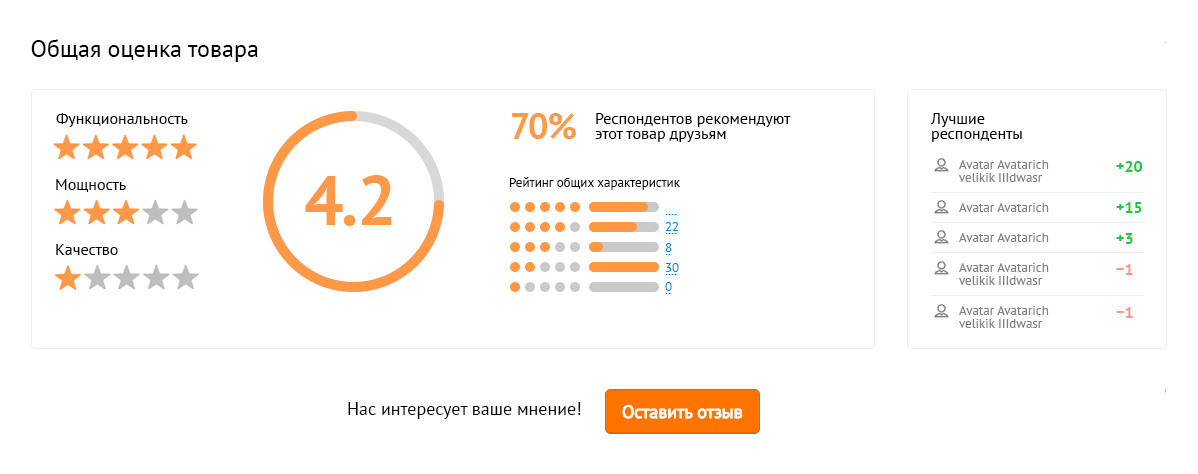
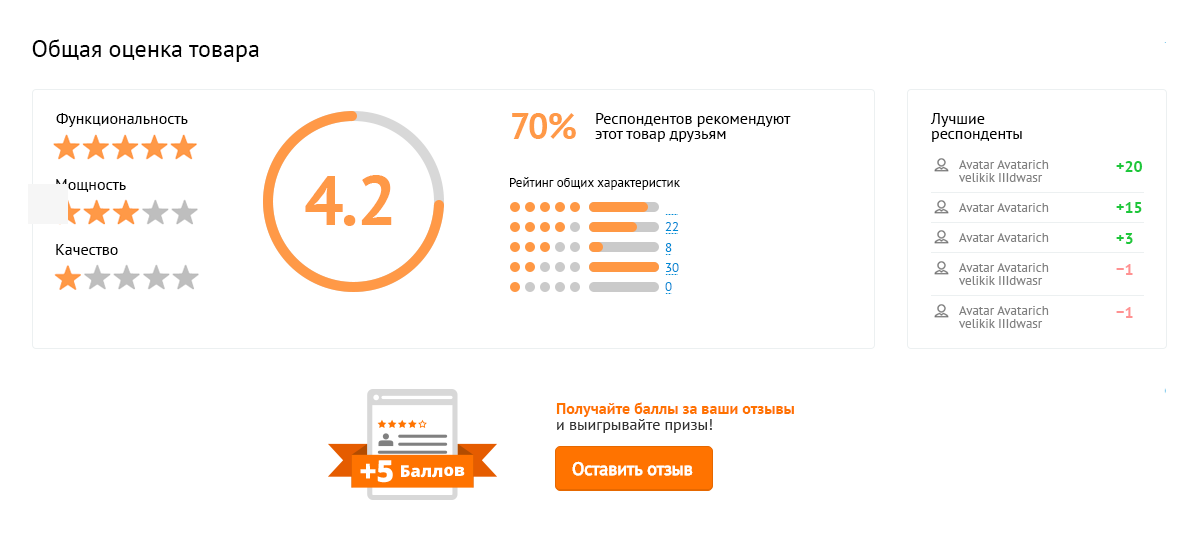
Add files via upload

diff --git a/css/style.css b/css/style.css
@@ -38,7 +38,7 @@
 }
 .content-box .overview {
     background: url(../img/not_autorized/overview.png) no-repeat;
-    height: 474px;
+    height: 540px;
     
 }
 .content-box .review-spoiler {
@@ -46,8 +46,8 @@
     position: absolute;
     width: 155px;
     height: 45px;
-    top: 430px;
-    right:437px;
+    top: 490px;
+    right:490px;
     z-index: 999;
     border-radius: 5px;
     background: none;
@@ -128,12 +128,12 @@
 }
 
 .btn.dns-shop {
-    left:170px;
+    left:230px;
     width: 120px;
 }
 
 .btn.yandex {
-    left:295px;
+    left:350px;
 }
 
 .autorize {
